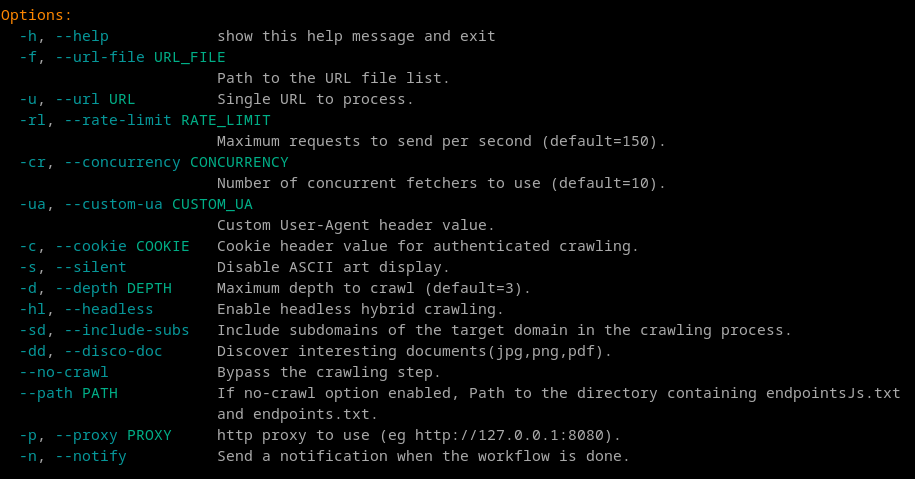
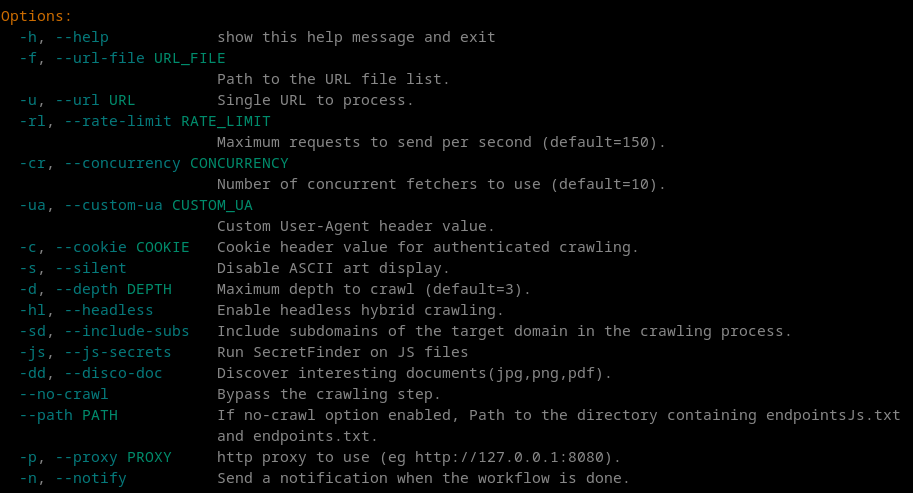
*Features* - Add subdomains enumeration to the workflow (`subfinder`, `assetfinder` tools). - Add `gau` url crawler tool. - Add `kxss` xss exploitation tool. - Add `-js` option to enable secretfinder script (disabled by default).
*Bug Fixes*
- Various filter optimization.

diff --git a/src/choom.py b/src/choom.py
@@ -3,6 +3,7 @@ import argparse
 import time
 import os
 import argcomplete
+import pathlib
 from rich.console import Console
 from rich.progress import Progress, SpinnerColumn, TextColumn
 from rich.live import Live
@@ -32,7 +33,7 @@ def main():
 
     # Parse arguments
     parser = argparse.ArgumentParser(
-        description='CH00M by MaxMnMl (v0.21)',
+        description='CH00M by MaxMnMl (v0.30)',
         formatter_class=ParagraphRichHelpFormatter,
         epilog='Examples:\n\n'
            '  python3 choom.py -u https://example.com -d 5 -rl 200\n\n'
@@ -49,6 +50,7 @@ def main():
     parser.add_argument('-d', '--depth', type=str, default=3, help='Maximum depth to crawl (default=3).')
     parser.add_argument('-hl', '--headless', action='store_true', help='Enable headless hybrid crawling.')
     parser.add_argument('-sd', '--include-subs', action='store_true', help='Include subdomains of the target domain in the crawling process.')
+    parser.add_argument('-js', '--js-secrets', action='store_true', help='Run SecretFinder on JS files.')
     parser.add_argument('-dd', '--disco-doc', action='store_true', help='Discover interesting documents(jpg,png,pdf).')
     parser.add_argument('--no-crawl', action='store_true', help='Bypass the crawling step.')
     parser.add_argument('--path', type=str, help='If no-crawl option enabled, Path to the directory containing endpointsJs.txt and endpoints.txt.')
@@ -74,7 +76,7 @@ def main():
     # Display ASCII art if not in silent mode
     if not args.silent:
         print_banner(console)
-        console.print("[bold magenta]        by MaxMnMl (Version 0.21)[/bold magenta]\n")
+        console.print("[bold magenta]        by MaxMnMl (Version 0.30)[/bold magenta]\n")
 
     if args.no_crawl:
         if not args.path:
@@ -93,21 +95,111 @@ def main():
         new_content_dir = os.path.join('content', next_subdir)
         os.makedirs(new_content_dir)
   
-        # Collect subdomains or single URL
+        # Subdomain Enumeration
         subdomains = []
         if args.url_file:
+            console.rule("[bold bright_green]Subdomain Enumeration[/bold bright_green]")
+            alive_path = os.path.join(new_content_dir, "alive.txt")
+            subdomains_txt = os.path.join(new_content_dir, "subdomains.txt")
+            with open(args.url_file, "r") as f:
+                domains = [line.strip() for line in f if line.strip()]
+            for domain in domains:
+                console.print(f"[yellow]Enumerating subdomains for: {domain}[/yellow]")
+                sub1 = os.path.join(new_content_dir, f"sub1_{domain}.txt")
+                sub2 = os.path.join(new_content_dir, f"sub2_{domain}.txt")
+                allsub = os.path.join(new_content_dir, f"allsub_{domain}.txt")
+                # subfinder
+                console.print(f"[blue]subfinder -silent -d {domain} -o {sub1}[/blue]")
+                try:
+                    subprocess.run(f"subfinder -silent -d {domain} -o {sub1}", shell=True, check=True)
+                except KeyboardInterrupt:
+                    console.print("[red]Subdomain enumeration interrupted by user, moving to next step.[/red]")
+                # assetfinder
+                console.print(f"[blue]assetfinder --subs-only {domain} | tee {sub2}[/blue]")
+                try:
+                    subprocess.run(f"assetfinder --subs-only {domain} | tee {sub2}", shell=True, check=True)
+                except KeyboardInterrupt:
+                    console.print("[red]Subdomain enumeration interrupted by user, moving to next step.[/red]")
+                # Ensure each file exists (otherwise, create an empty one)
+                for f in [sub1, sub2]:
+                    if not os.path.exists(f):
+                        pathlib.Path(f).touch()
+                # merge
+                try:
+                    subprocess.run(f"cat {sub1} {sub2} > {allsub}", shell=True, check=True)
+                except KeyboardInterrupt:
+                    console.print("[red]Subdomain enumeration by user, moving to next step.[/red]")
+                os.remove(sub1)
+                os.remove(sub2)
+                # deduplicate
+                try:
+                    subprocess.run(f"cat {allsub} | anew >> {subdomains_txt}", shell=True, check=True)
+                except KeyboardInterrupt:
+                    console.print("[red]Subdomain enumeration interrupted by user, moving to next step.[/red]")
+                os.remove(allsub)
+            console.print(f"\n[green]Looking for alive subdomains[/green]")
+            console.print(f"[blue]httpx -silent -l {subdomains_txt} -o {alive_path}[/blue]")
             try:
-                with open(args.url_file, 'r') as file:
-                    subdomains = file.readlines()
-            except FileNotFoundError:
-                console.print(f"[red]File not found: {args.url_file}[/red]")
-                return
+                subprocess.run(f"httpx -silent -l {subdomains_txt} -o {alive_path}", shell=True, check=True)
+            except KeyboardInterrupt:
+                console.print("[red]Subdomain enumeration interrupted by user, moving to next step.[/red]")
+            os.remove(subdomains_txt)
+            # Use alive.txt as subdomains list
+            with open(alive_path, "r") as f:
+                subdomains = [line.strip() for line in f if line.strip()]
         elif args.url:
-            subdomains = [args.url]
+            console.rule("[bold bright_green]Subdomain Enumeration[/bold bright_green]")
+            domain = args.url.strip()
+            sub1 = os.path.join(new_content_dir, "sub1.txt")
+            sub2 = os.path.join(new_content_dir, "sub2.txt")
+            sub3 = os.path.join(new_content_dir, "sub3.txt")
+            allsub = os.path.join(new_content_dir, "allsub.txt")
+            subdomains_txt = os.path.join(new_content_dir, "subdomains.txt")
+            alive_path = os.path.join(new_content_dir, "alive.txt")
+            console.print(f"[blue]subfinder -silent -d {domain} -o {sub1}[/blue]")
+            try:
+                subprocess.run(f"subfinder -silent -d {domain} -o {sub1}", shell=True, check=True)
+            except KeyboardInterrupt:
+                console.print("[red]Subdomain enumeration interrupted by user, moving to next step.[/red]")
+            console.print(f"[blue]amass enum --passive -d {domain} -o {sub2}[/blue]")
+            try:
+                subprocess.run(f"amass enum --passive -d {domain} -o {sub2}", shell=True, check=True)
+            except KeyboardInterrupt:
+                console.print("[red]Subdomain enumeration interrupted by user, moving to next step.[/red]")
+            console.print(f"[blue]assetfinder --subs-only {domain} | tee {sub3}[/blue]")
+            try:
+                subprocess.run(f"assetfinder --subs-only {domain} | tee {sub3}", shell=True, check=True)
+            except KeyboardInterrupt:
+                console.print("[red]Subdomain enumeration interrupted by user, moving to next step.[/red]")
+            # S'assurer que chaque fichier existe (sinon, le créer vide)
+            for f in [sub1, sub2, sub3]:
+                if not os.path.exists(f):
+                    pathlib.Path(f).touch()
+            try:
+                subprocess.run(f"cat {sub1} {sub2} {sub3} > {allsub}", shell=True, check=True)
+            except KeyboardInterrupt:
+                console.print("[red]Subdomain enumeration interrupted by user, moving to next step.[/red]")
+            os.remove(sub1)
+            os.remove(sub2)
+            os.remove(sub3)
+            try:
+                subprocess.run(f"cat {allsub} | anew >> {subdomains_txt}", shell=True, check=True)
+            except KeyboardInterrupt:
+                console.print("[red]Subdomain enumeration interrupted by user, moving to next step.[/red]")
+            os.remove(allsub)
+            console.print(f"\n[green]Looking for alive subdomains[/green]")
+            console.print(f"[blue]httpx -silent -l {subdomains_txt} -o {alive_path}[/blue]")
+            try:
+                subprocess.run(f"httpx -silent -l {subdomains_txt} -o {alive_path}", shell=True, check=True)
+            except KeyboardInterrupt:
+                console.print("[red]Subdomain enumeration interrupted by user, moving to next step.[/red]")
+            os.remove(subdomains_txt)
+            with open(alive_path, "r") as f:
+                subdomains = [line.strip() for line in f if line.strip()]
         else:
             console.print("[red]You must provide either a subdomain file with -f or a single URL with -u[/red]")
             return
-
+        
         # Set waybackurls options based on user input
         waybackurls_options = "" if args.include_subs else "-no-subs"
 
@@ -128,6 +220,22 @@ def main():
 
             try:
                 subprocess.run(waybackurls_cmd, shell=True, check=True)
+            except KeyboardInterrupt:
+                console.print("[red]Crawling interrupted by user[/red]")
+
+        # Gau Crawling
+        console.rule("[bold bright_green]Gau Crawling[/bold bright_green]")
+        for subdomain in subdomains:
+            subdomain = subdomain.strip()
+            if not subdomain:
+                continue
+            console.print(f"[yellow]Processing subdomain: {subdomain}[/yellow]")
+
+            gau_cmd = f"gau {subdomain} | tee {new_content_dir}/crawl.txt"
+            console.print(f"[blue]Running command: {gau_cmd}[/blue]")
+
+            try:
+                subprocess.run(gau_cmd, shell=True, check=True)
             except KeyboardInterrupt:
                 console.print("[red]Crawling interrupted by user[/red]")
 
@@ -236,25 +344,26 @@ def main():
             subprocess.run(cleanup_cmd, shell=True, check=True)
         
     # Discover secrets in JS files
-    console.rule("[bold bright_green]Possible secrets in JS files [SecretFinder][/bold bright_green]")
-    with open(f"{new_content_dir}/result.txt", "a") as result_file:
-        result_file.write("\033[1;34m################## SECRETS IN JS FILES [SecretFinder] ###################\033[0m\n")
-        result_file.write(" \n")
-    with open(f"{new_content_dir}/endpointsJs.txt", "r") as file:
-        for url in file:
-            url = url.strip()
-            if url:
-                console.print(f"[yellow]Processing URL: {url}[/yellow]")
-                headers = ""
-                if args.cookie:
-                    headers = f"-c '{args.cookie}'"
-                secret_finder_script = os.path.join(script_dir, 'script', 'SecretFinder.py')
-                discover_cmd = f"python3 {secret_finder_script} -i {url} -o cli {headers} | tee -a {new_content_dir}/result.txt"
-                console.print(f"[blue]Running command: {discover_cmd}[/blue]")
-                try:
-                    subprocess.run(discover_cmd, shell=True, check=True, timeout=60)
-                except subprocess.TimeoutExpired:
-                    console.print(f"[red]Timeout expired for URL: {url}[/red]")
+    if args.js_secrets:
+        console.rule("[bold bright_green]Possible secrets in JS files [SecretFinder][/bold bright_green]")
+        with open(f"{new_content_dir}/resultJS.txt", "a") as result_file:
+            result_file.write("\033[1;34m################## SECRETS IN JS FILES [SecretFinder] ###################\033[0m\n")
+            result_file.write(" \n")
+        with open(f"{new_content_dir}/endpointsJs.txt", "r") as file:
+            for url in file:
+                url = url.strip()
+                if url:
+                    console.print(f"[yellow]Processing URL: {url}[/yellow]")
+                    headers = ""
+                    if args.cookie:
+                        headers = f"-c '{args.cookie}'"
+                    secret_finder_script = os.path.join(script_dir, 'script', 'SecretFinder.py')
+                    discover_cmd = f"python3 {secret_finder_script} -i {url} -o cli {headers} | tee -a {new_content_dir}/resultJS.txt"
+                    console.print(f"[blue]Running command: {discover_cmd}[/blue]")
+                    try:
+                        subprocess.run(discover_cmd, shell=True, check=True, timeout=60)
+                    except subprocess.TimeoutExpired:
+                        console.print(f"[red]Timeout expired for URL: {url}[/red]")
     
     # Discover Backup files
     console.rule("[bold bright_green]Possible backup files[/bold bright_green]")
@@ -318,65 +427,12 @@ def main():
     with console.status("[bold green]Running command...[/bold green]", spinner="dots"):
         subprocess.run(cleanup_cmd2, shell=True, check=True)
     
-    # Remove duplicate query string
+    # Remove duplicate query string with uro
     console.print("[green]Removing duplicate query string...[green]")
-    unique_urls = {}
-
-    def normalize_url(url):
-        # Parse the URL
-        parsed_url = urlparse(url)
-
-        # Extract the query parameters
-        query_params = parse_qs(parsed_url.query)
-
-        # Normalize the query parameters by keeping only the keys
-        normalized_query = {key: '' for key in query_params}
-
-        # Reconstruct the URL with normalized query parameters
-        normalized_url = urlunparse(
-            (parsed_url.scheme, parsed_url.netloc, parsed_url.path,
-            parsed_url.params, urlencode(normalized_query, doseq=True),
-            parsed_url.fragment)
-        )
-
-        return normalized_url
-
-    def unique_urls_with_most_params(file_path):
-        with open(file_path, 'r') as file:
-            urls = file.readlines()
-
-        # Dictionary to keep track of the URL with the most parameters for each normalized URL
-        unique_urls_dict = {}
-
-        for url in urls:
-            url = url.strip()
-            normalized_url = normalize_url(url)
-
-            # Parse the URL to count the number of parameters
-            parsed_url = urlparse(url)
-            num_params = len(parse_qs(parsed_url.query))
-
-            # If the normalized URL is not in the dictionary or has more parameters, update it
-            if (normalized_url not in unique_urls_dict or
-                num_params > len(parse_qs(urlparse(unique_urls_dict[normalized_url]).query))):
-                unique_urls_dict[normalized_url] = url
-
-        return unique_urls_dict.values()
-
-    # Usage
-    file_path = f"{new_content_dir}/endpoints_filtered.txt"
-    unique_urls_with_most_params_set = unique_urls_with_most_params(file_path)
-
-    # Write the unique URLs with the most parameters to a file
-    with open(f"{new_content_dir}/endpoints_param.txt", "w") as file:
-        for url in unique_urls_with_most_params_set:
-            file.write(url + "\n")
-
-    # Remove the original file
-    remove_cmd2 = f"rm {new_content_dir}/endpoints_filtered.txt"
-    subprocess.run(remove_cmd2, shell=True, check=True)
-
-
+    cleanup_cmd3 = f"cat {new_content_dir}/endpoints_filtered.txt | uro >> {new_content_dir}/endpoints_param.txt"
+    with console.status("[bold green]Running command...[/bold green]", spinner="dots"):
+        subprocess.run(cleanup_cmd3, shell=True, check=True)
+    
     # Use gf to find vulnerabilities
     console.rule(f"[bold bright_green]Possible vulnerable parameters (gf)[/bold bright_green]")
     with open(f"{new_content_dir}/result.txt", "a") as result_file:
@@ -394,6 +450,14 @@ def main():
         console.print(f"[blue]Running command: {gf_cmd}[/blue]")
         subprocess.run(gf_cmd, shell=True, check=True)
 
+    # Use kxss on XSS patterns to exploit automatically
+    console.rule(f"[bold bright_green]Exploit XSS (kxss)[/bold bright_green]")
+    kxss_cmd = f"cat {new_content_dir}/endpoints_param.txt | gf xss | kxss | tee {new_content_dir}/kxss.txt"
+    console.print(f"[blue]Running command: {kxss_cmd}[/blue]")
+    try:
+        subprocess.run(kxss_cmd, shell=True, check=True)
+    except KeyboardInterrupt:
+        console.print("[red]kxss execution interrupted by user[/red]")
     
     # Use dalfox on XSS patterns to exploit automatically
     console.rule(f"[bold bright_green]Exploit XSS (dalfox)[/bold bright_green]")

diff --git a/README.md b/README.md
@@ -46,13 +46,17 @@ Choom is a workflow manager for web application reconnaissance. It supports seve
 
 | Tool                                                        | Description                                                    |
 | ----------------------------------------------------------- | -------------------------------------------------------------- |
+| [assetfinder](https://github.com/tomnomnom/assetfinder)     | Find domains and subdomains tool.                              |
 | [cariddi](https://github.com/edoardottt/cariddi)            | Fast crawler and endpoint secrets / api keys / tokens matcher. |
 | [dalfox](https://github.com/hahwul/dalfox)                  | Powerful scanner for XSS flaws.                                |
+| [gau](https://github.com/lc/gau)                            | Fetch known URLs from AlienVault's Open Threat Exchange ...    |
 | [gf](https://github.com/tomnomnom/gf)                       | A wrapper around grep to avoid typing common patterns.         |
 | [httpx](https://github.com/projectdiscovery/httpx)          | Fast and multi-purpose HTTP toolkit.                           |
 | [katana](https://github.com/projectdiscovery/katana)        | Fast and fully configurable web crawler.                       |
+| [kxss](https://github.com/Emoe/kxss)                        | Identify XSS Vulnerable Parameters / Patterns.                 |
 | [notify](https://github.com/projectdiscovery/notify)        | Send notifications to a variety of supported platforms.        |
 | [secretFinder](https://github.com/m4ll0k/SecretFinder)      | Discover sensitive data in JavaScript files.                   |
+| [subfinder](https://github.com/projectdiscovery/subfinder)  | Fast passive subdomain enumeration tool.                       |
 | [virustotalx](https://github.com/orwagodfather/virustotalx) | Offline crawler using Virustotal API.                          |
 | [waybackurls](https://github.com/tomnomnom/waybackurls)     | Offline crawler using Web Archive.                             |
 
@@ -74,11 +78,11 @@ During the execution of the workflow, using the `Ctrl-C` command allows you to s
 # Display help
 python3 choom.py -h
 
-# Run a single URL workflow
-python3 choom.py -u https://example.com
+# Run a single domain workflow
+python3 choom.py -u example.com
 
 # Run workflow with a list input
-python3 choom.py -f urls.txt
+python3 choom.py -f domains.txt
 
 # If you want to use your own list of endpoints, you can bypass the crawling process by indicating the directory where your files are located. (Files must be renamed "endpoint.txt" and "endpointJs.txt")
 python3 choom.py --no-crawl --path /path/to/directory
@@ -131,6 +135,8 @@ python3 choom.py -u https://example.com -p "http://127.0.0.1:8080"
 #### Filtering
 
 `-dd`: By default, JPG, PNG, and PDF extensions are not included in the endpoints displayed in the results. This option enables filtering of these results, which can be useful for financial targets.
+
+`-js`: Run SecretFinder script on JS files to discover sensitive data like API keys, access tokens, authorizations, JWTs, and more.
 
 #### Skip Crawling
 
